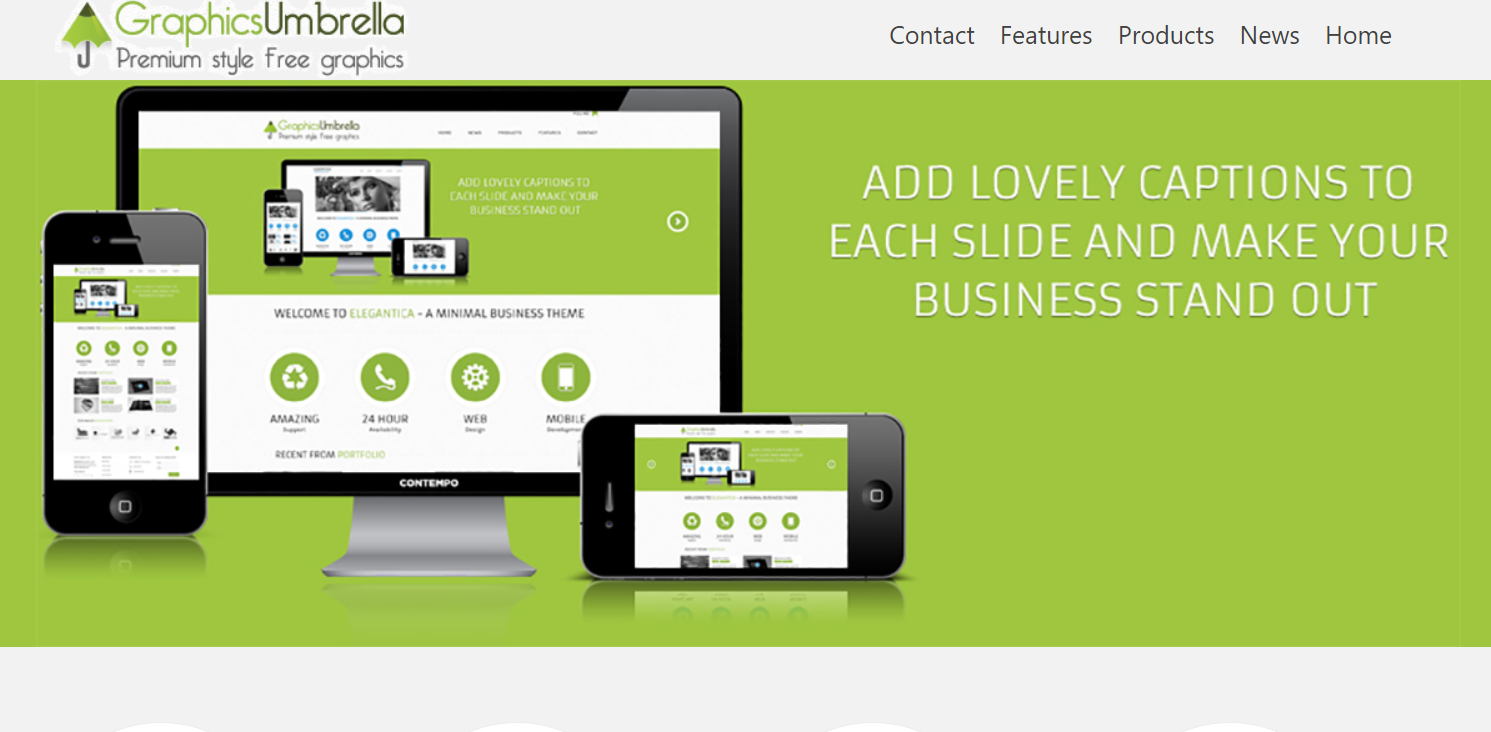
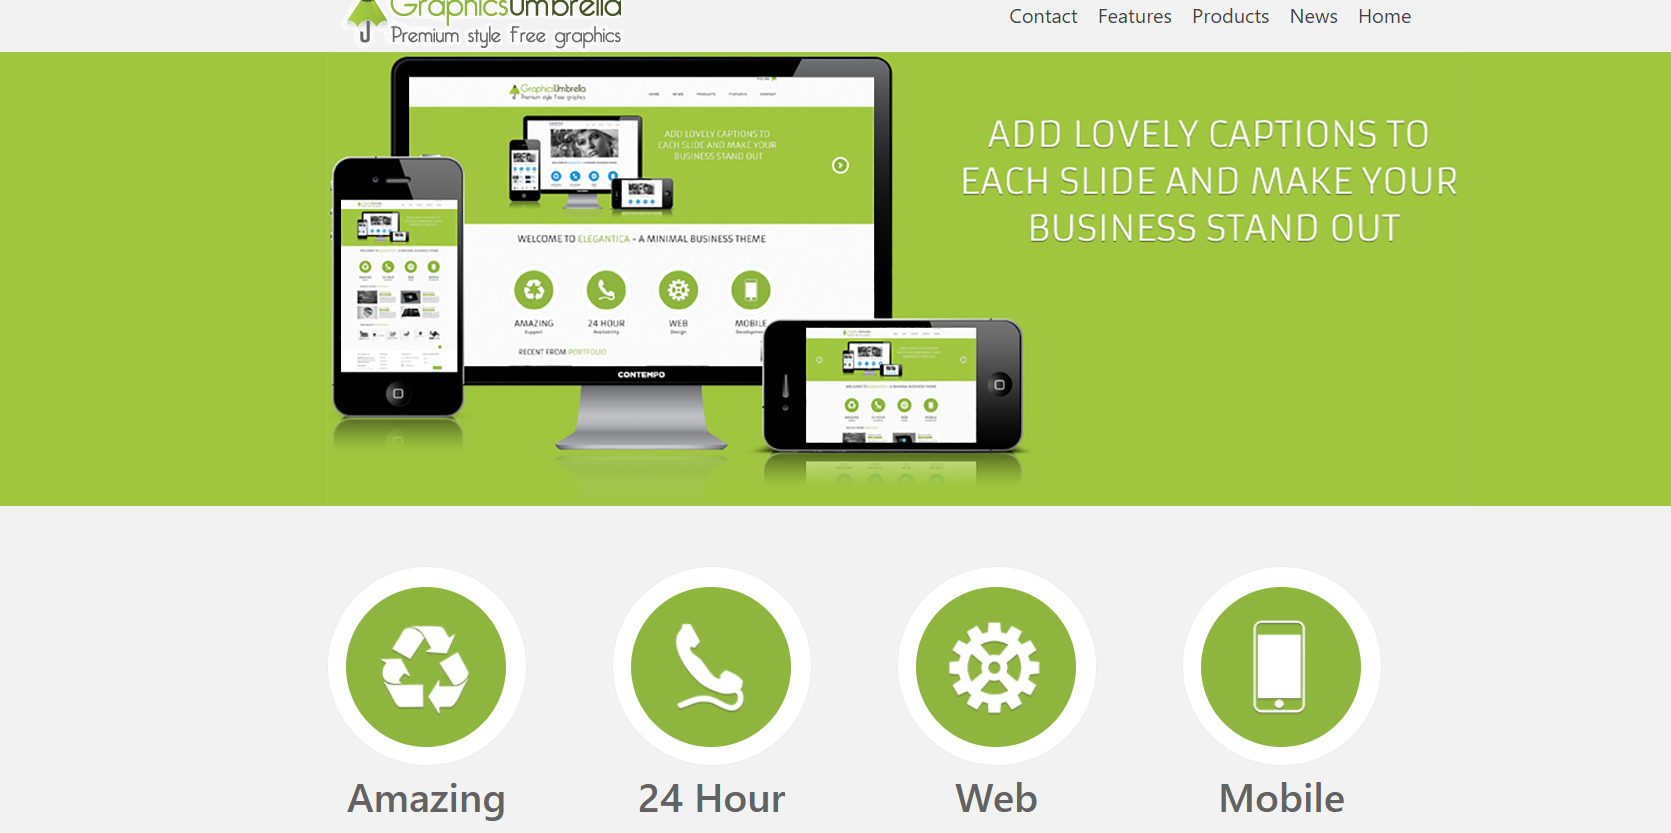
Changed the layout slightly and made some images smaller to improve performance.

diff --git a/index.html b/index.html
@@ -56,34 +56,24 @@
                 </div>
                 <!-- next row below, with projects -->
                 <div class="row d-flex justify-content-center">
-                    <div class="col-lg-4 col-sm-12 d-flex justify-content-center column_space">
+                    <div class="col-lg-6 col-sm-12 d-flex justify-content-center column_space">
                         <figure class="imghvr-shutter-out-diag-2">
                             <img src="./images/umbrella_preview.png" alt="placeholder pic">
                             <figcaption>
                                 <h3>Graphics Umbrella</h3>
                                 <p>This was a project that I was tasked with completing at the MSCA.Showcases the nice and cozy Bootstrap 4 framework in action.</p>
                             </figcaption>
-                            <a href="https://vintagejojo.github.io/umbrella/"></a>
+                            <a class="teaser_photo" href="https://vintagejojo.github.io/umbrella/"></a>
                         </figure>
                     </div>
-                    <div class="col-lg-4 col-sm-12 d-flex justify-content-center column_space">
+                    <div class="col-lg-6 col-sm-12 d-flex justify-content-center column_space">
                         <figure class="imghvr-shutter-out-diag-2">
-                            <img src="./images/detroix_preview.png" alt="placeholder pic">
+                            <img src="./images/quaran_trail.png" alt="placeholder pic">
                             <figcaption>
-                                <h3>Detroix</h3>
-                                <p>A simple webpage that I was tasked with designing at MSCA. One of my favorites because it was when things started to click for me.</p>
+                                <h3>Quarantrail</h3>
+                                <p>A fun text-based adventure game with multiple endings. Manage your health and sanity bar and try to see what ending you get!</p>
                             </figcaption>
-                            <a href="https://vintagejojo.github.io/detroix/"></a>
-                        </figure>
-                    </div>
-                    <div class="col-lg-4 col-sm-12 d-flex justify-content-center column_space">
-                        <figure class="imghvr-shutter-out-diag-2" >
-                            <img src="./images/janken.png" alt="placeholder pic">
-                            <figcaption>
-                                <h3>Rock Paper Scissors</h3>
-                                <p>Little project I whipped up using HTML,CSS,and vanilla Javascript. Also a little Bootstrap 4 sprinkled in as well.</p>
-                            </figcaption>
-                            <a href="https://vintagejojo.github.io/Jajanken/"></a>
+                            <a class="teaser_photo" href="https://vintagejojo.github.io/Quarantrail/"></a>
                         </figure>
                     </div>
                 </div>
@@ -94,34 +84,45 @@
                 <div class="work_mods"></div>
                 <!--  ^^ Nothing Wrong with a little space -->
                 <div class="row">
-                    <div class="col-lg-4 col-sm-12 d-flex justify-content-center column_space">
+                    <div class="col-lg-6 col-sm-12 d-flex justify-content-center column_space">
                         <figure class="imghvr-shutter-out-diag-2" >
                             <img src="./images/clock.png" alt="placeholder pic">
                             <figcaption>
                                 <h3>Javascript Clock</h3>
                                 <p>Fun little clock that I made</p>
                             </figcaption>
-                            <a href="https://vintagejojo.github.io/Jojoclock/. "></a>
+                            <a class="teaser_photo" href="https://vintagejojo.github.io/Jojoclock/ "></a>
                         </figure>
                     </div>
-                    <div class="col-lg-4 col-sm-12 d-flex justify-content-center column_space">
+                    <!--  -->
+                    <div class="col-lg-6 col-sm-12 d-flex justify-content-center column_space">
+                        <figure class="imghvr-shutter-out-diag-2" >
+                            <img src="./images/janken.png" alt="placeholder pic">
+                            <figcaption>
+                                <h3>Rock Paper Scissors</h3>
+                                <p>Little project I whipped up using HTML,CSS,and vanilla Javascript. Also a little Bootstrap 4 sprinkled in as well.</p>
+                            </figcaption>
+                            <a class="teaser_photo" href="https://vintagejojo.github.io/Jajanken/"></a>
+                        </figure>
+                    </div>
+                    <div class="col-lg-6 col-sm-12 d-flex justify-content-center column_space">
                         <figure class="imghvr-shutter-out-diag-2" >
                             <img src="./images/under_construction.jpg" alt="placeholder pic">
                             <figcaption>
                                 <h3>??????</h3>
                                 <p>Unknown Project. Powerlevel is immesurable. Stay tuned!</p>
                             </figcaption>
-                            <a href="#"></a>
+                            <a class="teaser_photo" href="#"></a>
                         </figure>
                     </div>
-                    <div class="col-lg-4 col-sm-12 d-flex justify-content-center column_space">
+                    <div class="col-lg-6 col-sm-12 d-flex justify-content-center column_space">
                         <figure class="imghvr-shutter-out-diag-2" >
                             <img src="./images/under_construction.jpg" alt="placeholder pic">
                             <figcaption>
                                 <h3>??????</h3>
                                 <p>Unknown Project. Powerlevel is immesurable. Stay tuned!</p>
                             </figcaption>
-                            <a href="#"></a>
+                            <a class="teaser_photo" href="#"></a>
                         </figure>
                     </div>
                 </div>
@@ -140,7 +141,7 @@
                 <div class="col-lg-8">
                     <div class="wrapper">
                         <div class="sin_team" id="jojo_zone">
-                            <img src="./images/wassupjojo (1).jpg" alt="cute lil fella">
+                            <img src="./images/young_jojo.png" alt="cute lil fella">
                             <h3>Jordan Roland</h3>
                             <p>Hey there friends, my name is Jordan. I am a military vet who has always had a love for tech. I enlisted in the United States Air Force straight out of High School and was a Weather Forcaster for a few years before ultimately cutting my time short to come back home and take care of family. Ever since then I've worked every job under the sun while being a coding hobbyist on the side. I finally decided to take the plunge in 2020 and start taking steps to further my career in code. If you would like to know more about me click the link <a href="https://drive.google.com/file/d/1i4ziI6J8d2X5EUqY8QX5J35Zb6Ia132b/view?usp=sharing">here</a>. See you, space cowboy.</p>
                         </div>

diff --git a/css/style.css b/css/style.css
@@ -27,7 +27,7 @@ body {
 }
 
 .hero_background {
-    background-image: url("../images/chris-j-davis-PT_9ux0j-x4-unsplash.jpg");
+    background-image: url("../images/keyboard_kid.png");
     width: 100vw;
     height: calc(100vh - 8vh);
     /* display: block; */
@@ -278,8 +278,8 @@ h2 span {
   }
 
 .imghvr-shutter-out-diag-2 img {
-    height: 300px;
-    width: 300px;
+    height: 400px;
+    width: 600px;
     background-size: inherit;
 }
 
